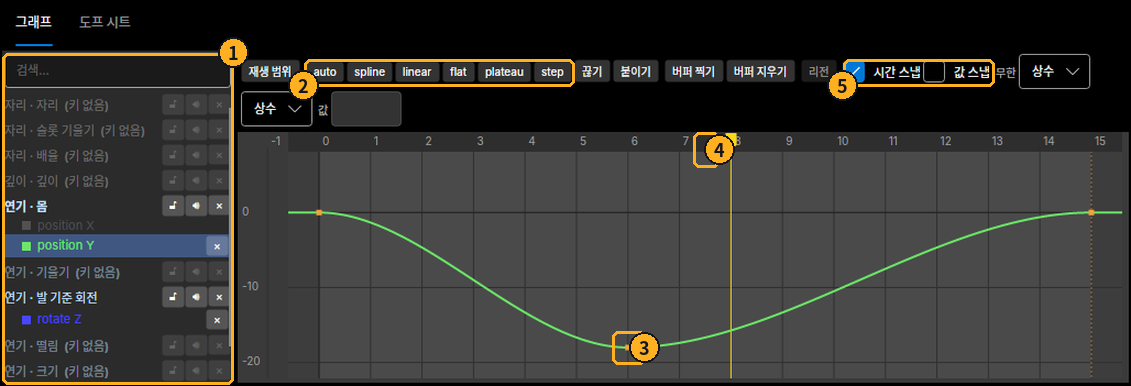
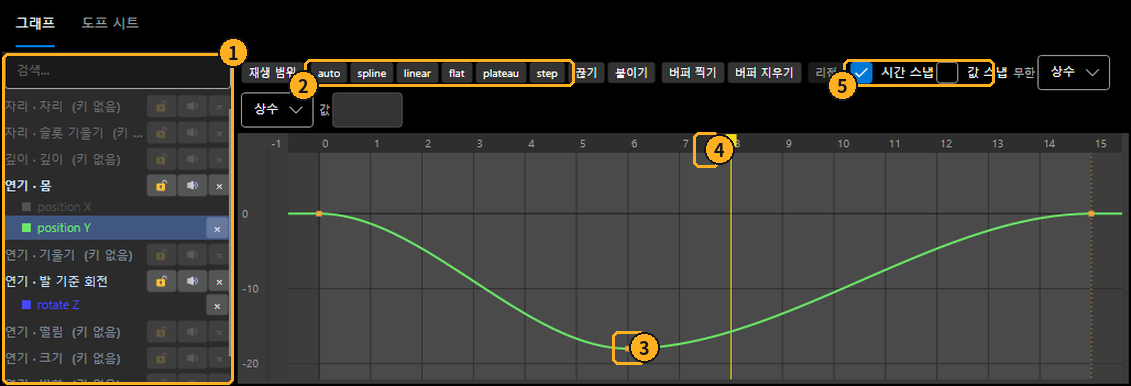
그림 설명서의 그림을 다시 뽑는다 — 채널 박스에서 배율 두 줄이 빠졌다(R7 S4)
컨트롤러가 9개가 되어 연기 묶음이 두 줄 올라갔다. motion-controller의 번호 자리를 그만큼 옮긴다.
화면은 소유자 PC(Windows)에서 뽑은 것이라 글꼴의 결이 앞의 그림과 조금 다르다 — 한 벌로 맞추려고 전부 바꾼다.

Claude-Session: https://claude.ai/code/session_01FgAUGVffJZJsyfw5zY1MSW

diff --git a/tools/guide-figures.py b/tools/guide-figures.py
@@ -225,7 +225,7 @@ figure("guide-motion", "motion-screen", [
     (9, 1320, 58, 1596, 614, "tl"), (10, 0, 936, 800, 959, "tr"),
 ])
 figure("guide-motion", "motion-preset", [(1, 8, 554, 128, 586, "tl"), (2, 132, 560, 213, 582, "tr"), (3, 8, 400, 272, 470, "tr")], crop=(0, 372, 290, 596), scale=1.6)
-figure("guide-motion", "motion-controller", [(1, 1324, 386, 1594, 482, "tl"), (2, 1568, 412, 1592, 434, "r")], crop=(1318, 100, 1600, 616), scale=1.4)
+figure("guide-motion", "motion-controller", [(1, 1324, 335, 1594, 431, "tl"), (2, 1568, 361, 1592, 383, "r")], crop=(1318, 100, 1600, 616), scale=1.4)
 figure("guide-motion", "motion-viewport", [(1, 1000, 54, 1210, 80, "bl"), (2, 1226, 54, 1304, 80, "bl"), (3, 786, 300, 866, 380, "r")], crop=(288, 46, 1314, 579), scale=1.2)
 figure("guide-motion", "motion-graph", [
     (1, 288, 631, 498, 932, "tr"), (2, 562, 637, 808, 661, "bl"), (3, 842, 884, 872, 914, "r"), (4, 916, 703, 940, 735, "r"), (5, 1052, 637, 1190, 661, "bl"),
